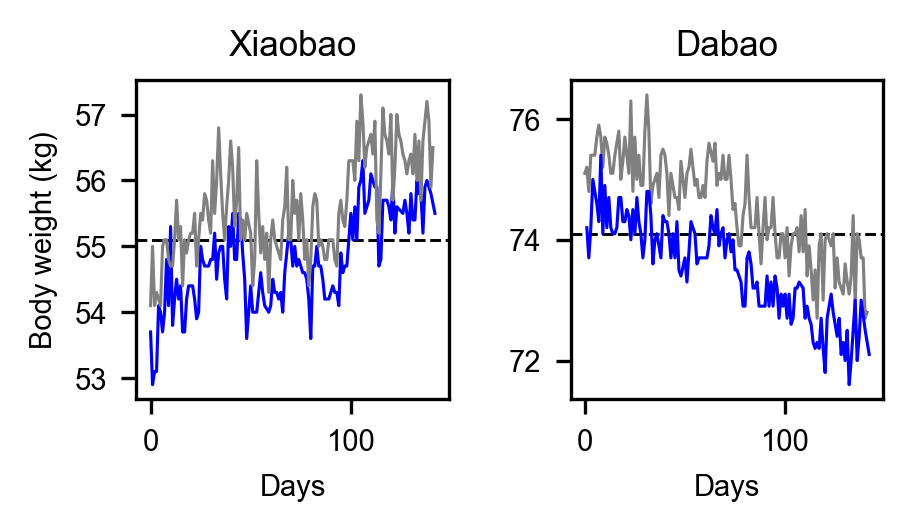
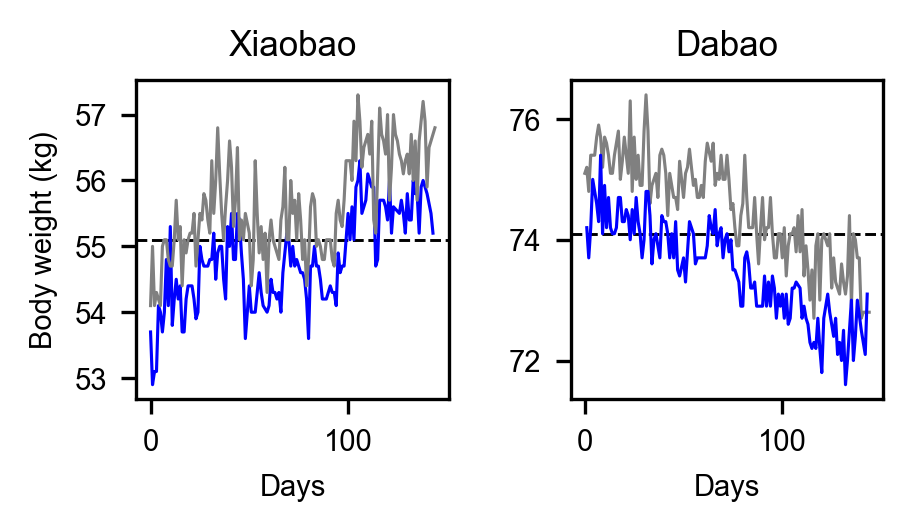
update health stats

diff --git a/health_stats_Di_Shaohe.md b/health_stats_Di_Shaohe.md
@@ -3,7 +3,7 @@ layout: player_stats
 title: Di and Shaohe Health
 author: Shaohe Wang
 author_url: https://scholar.google.com/citations?user=R_-kJV4AAAAJ&hl=en
-date: 2021-08-14
+date: 2021-08-16
 ---
 
 ### 左：吴笛；右：王少鹤
